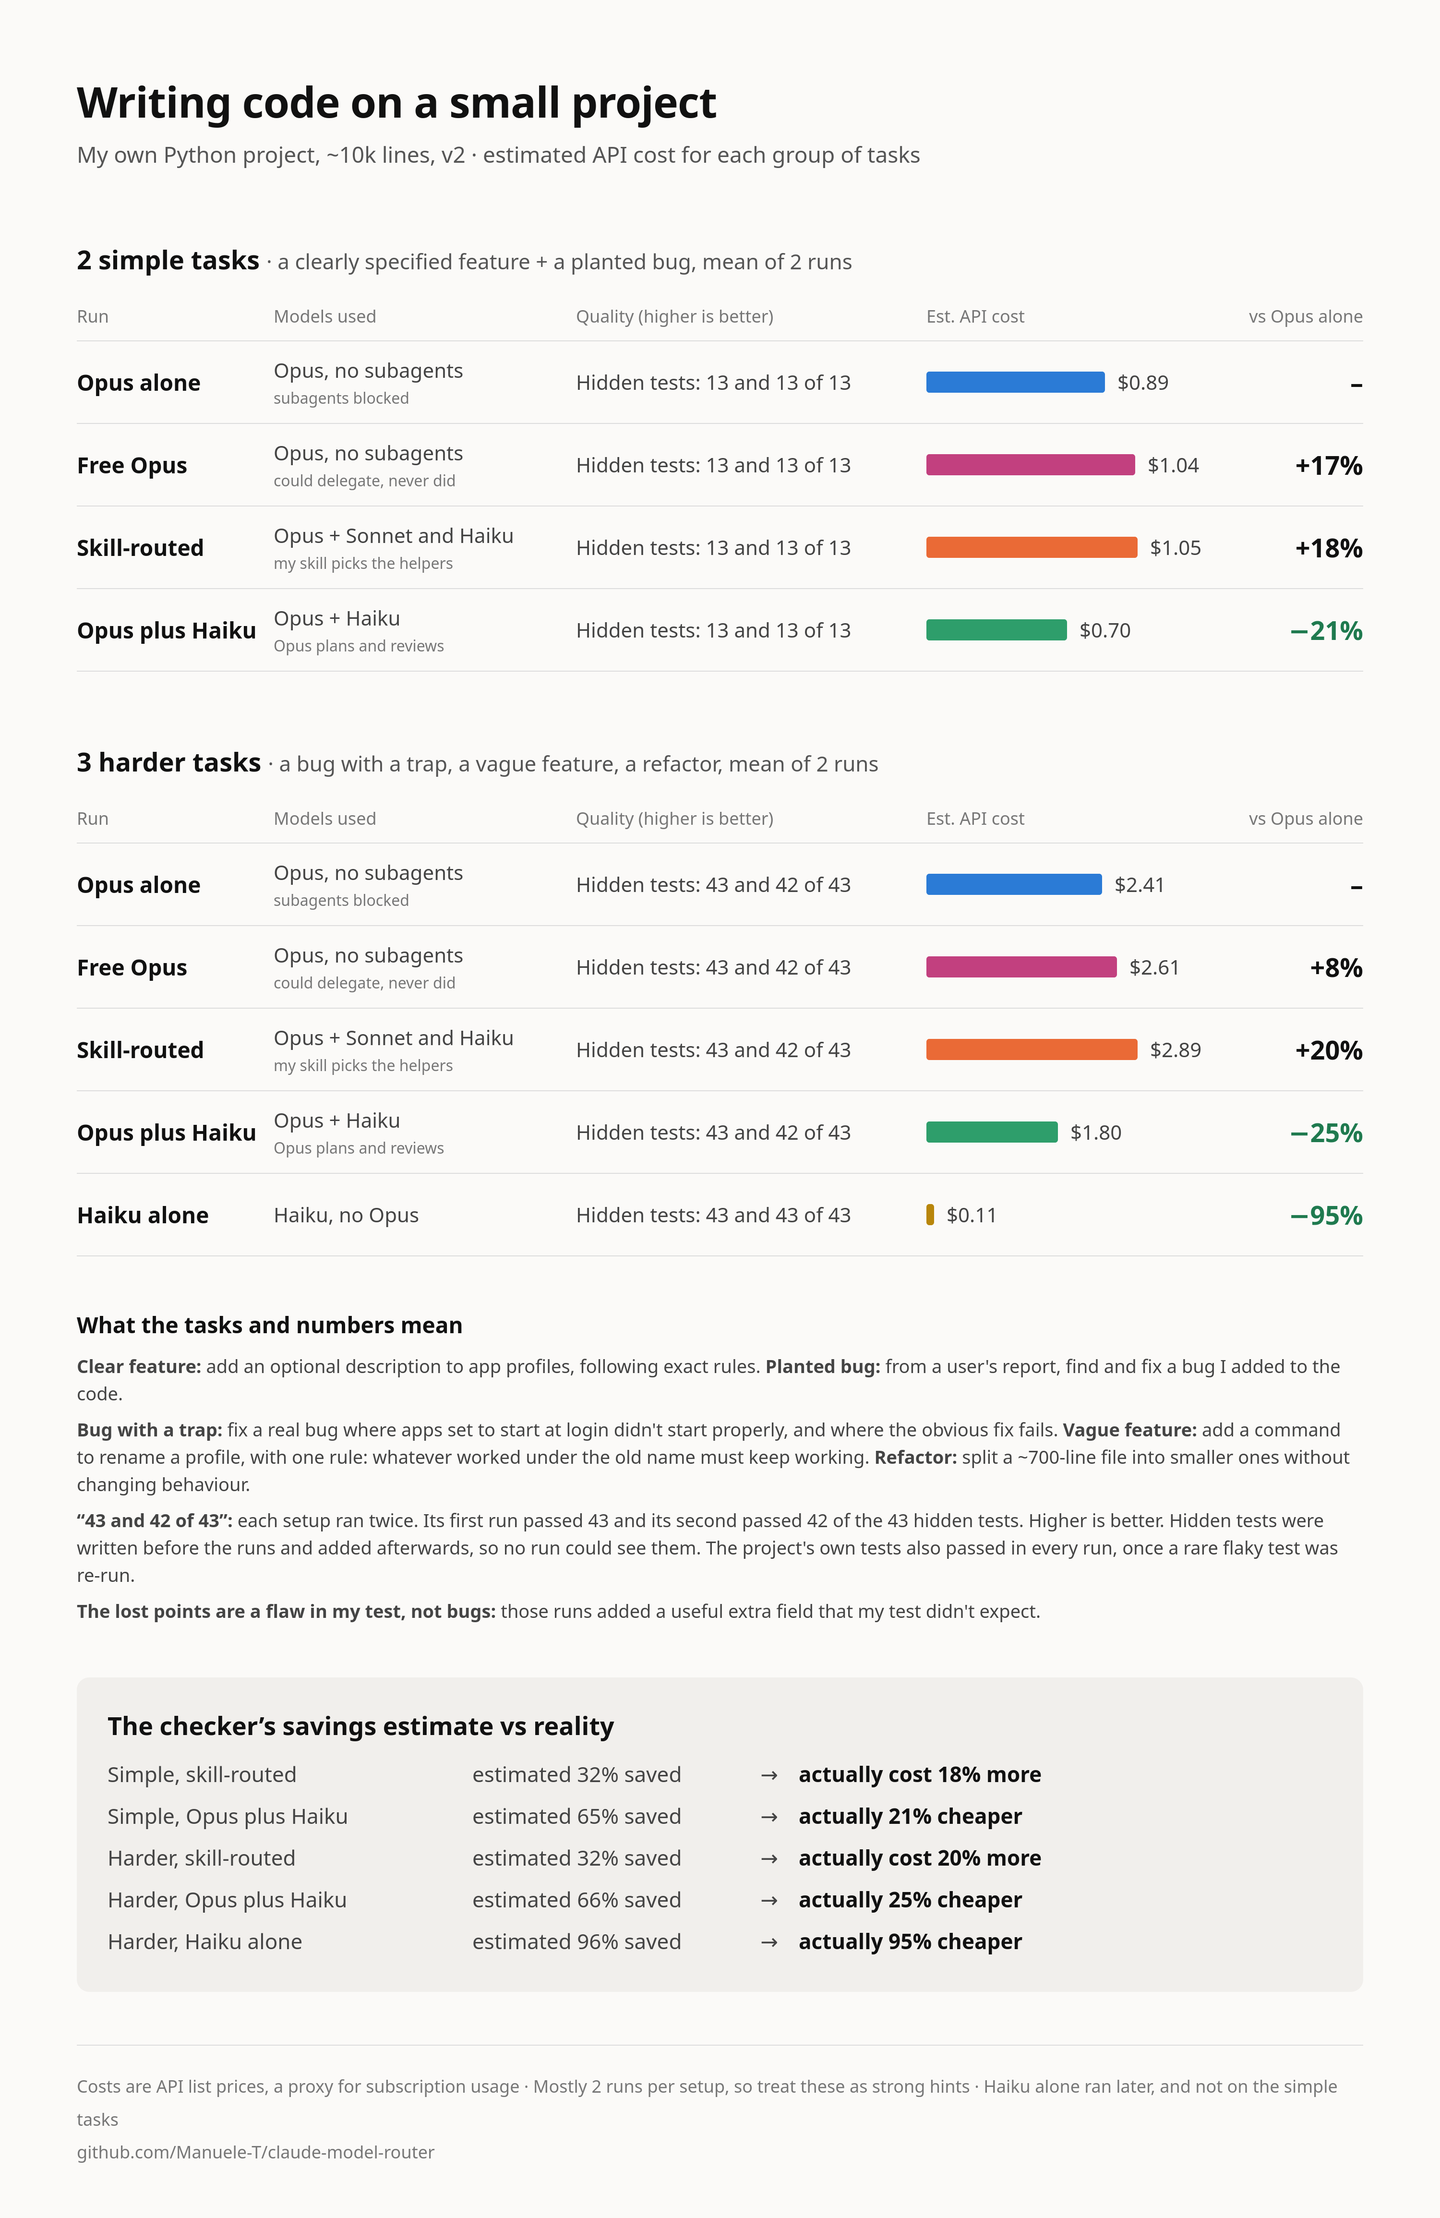
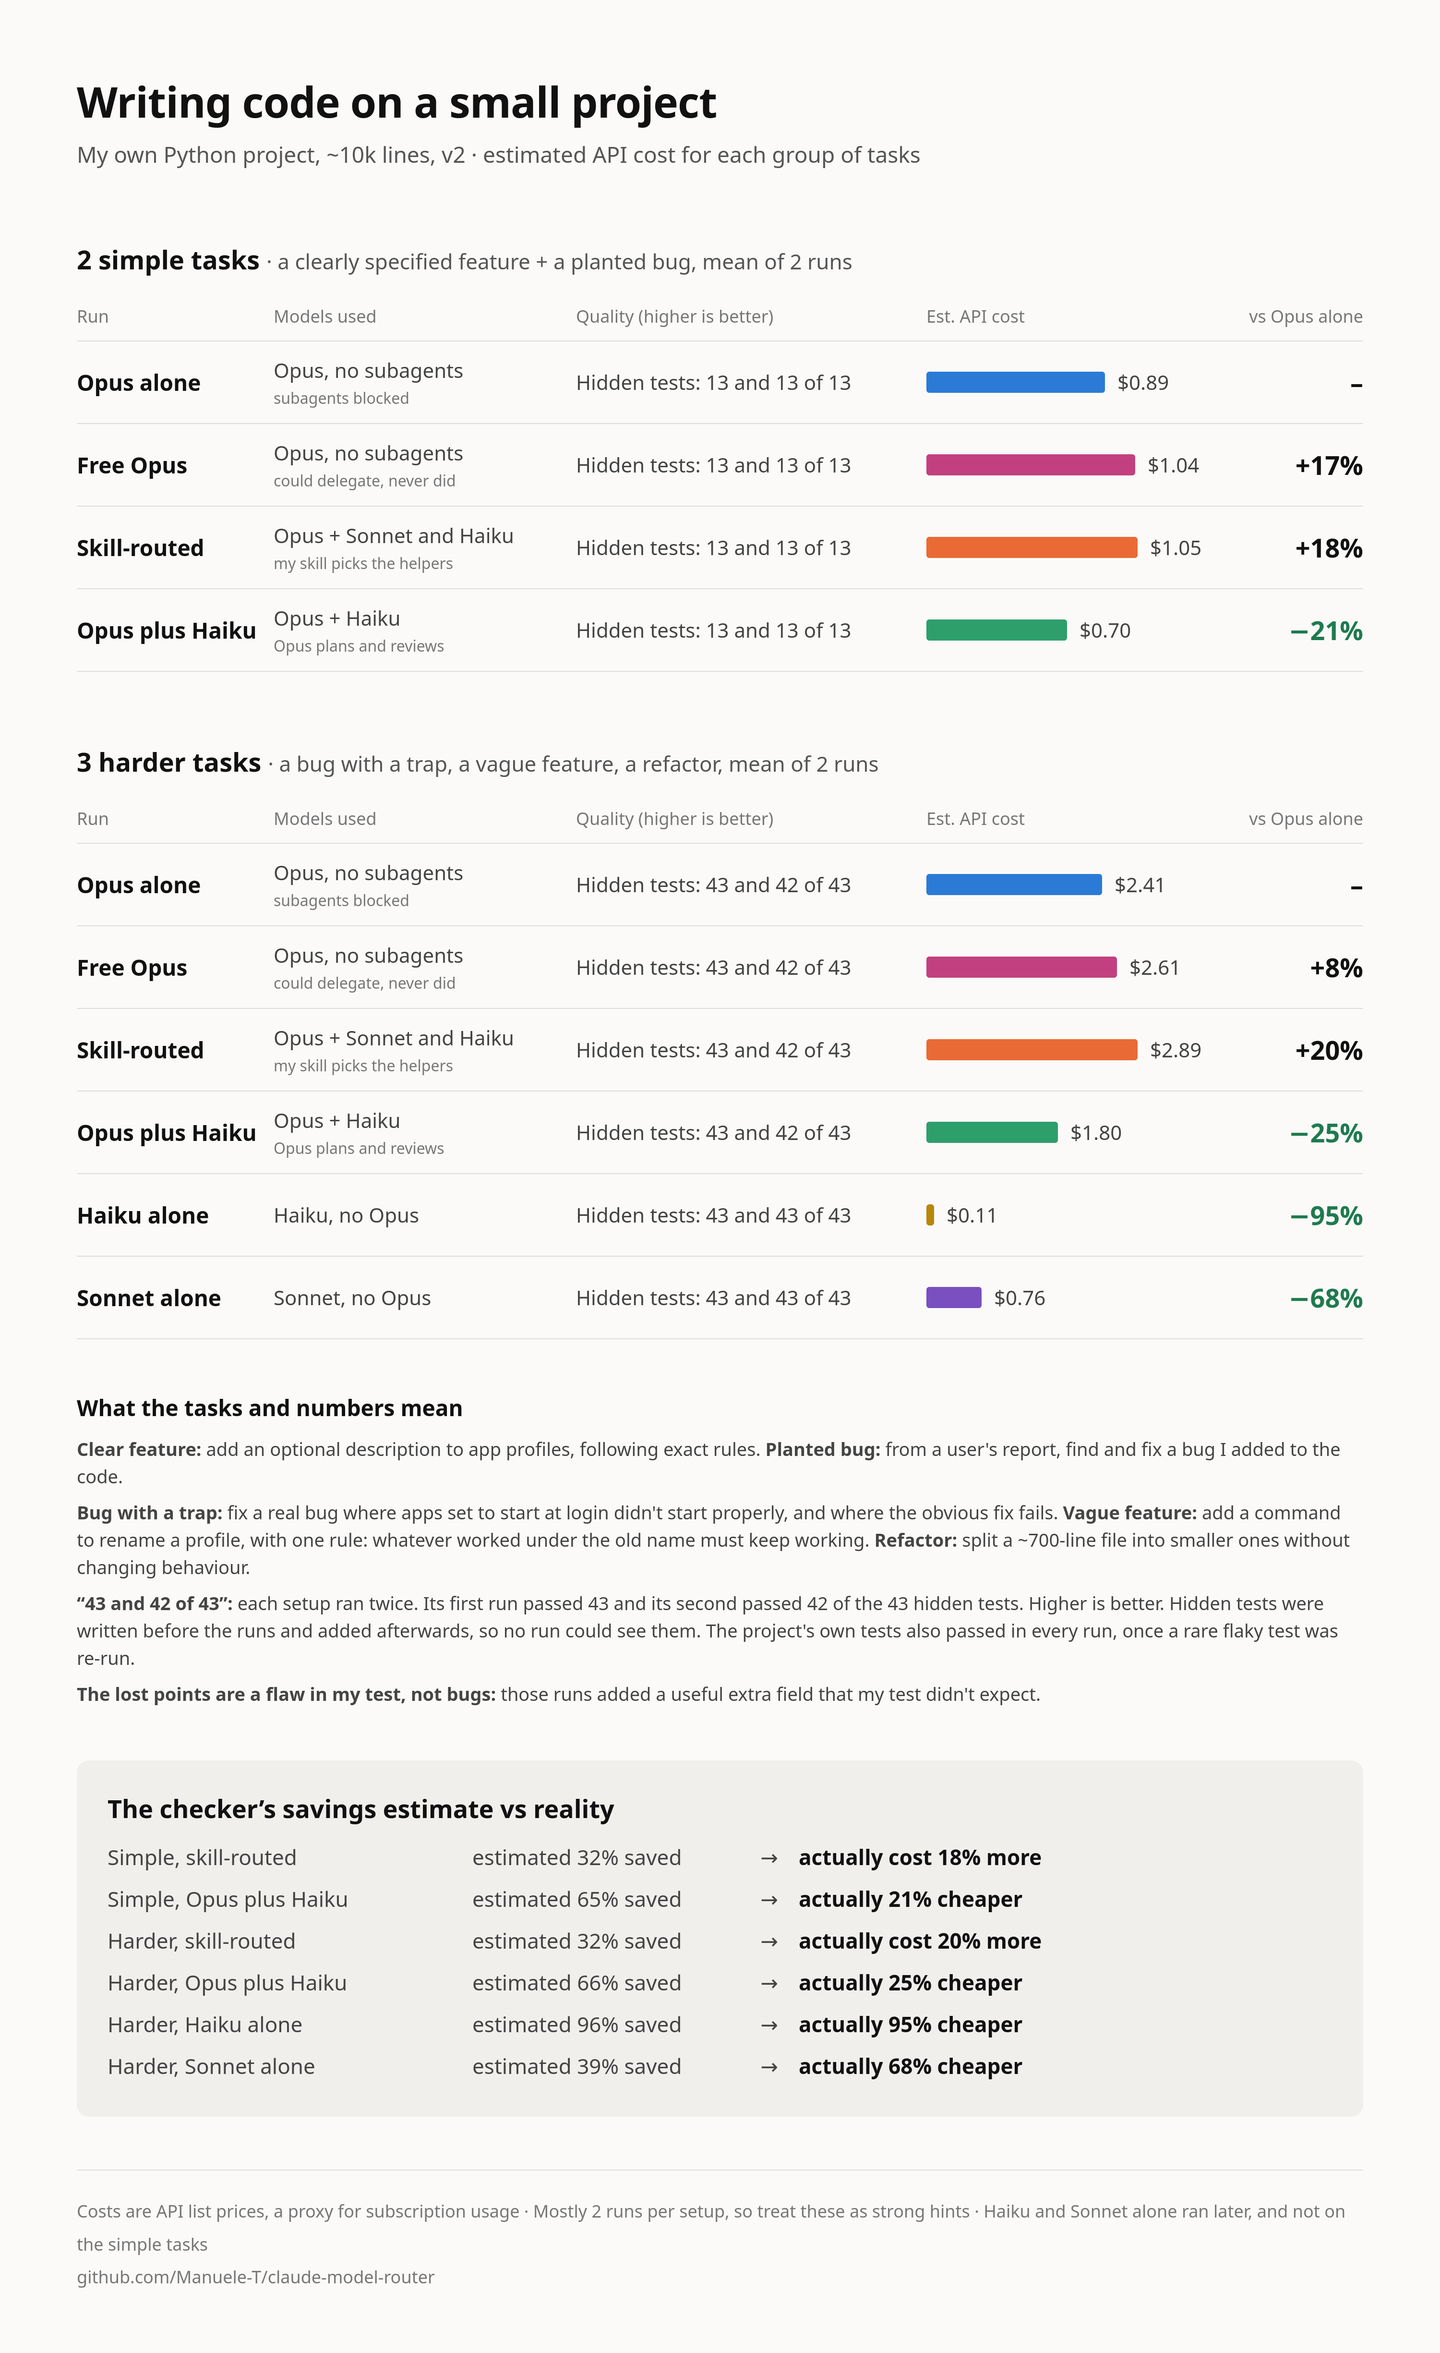
Add Sonnet alone to the six v2 charts that show Haiku alone

diff --git a/scripts/make_charts.py b/scripts/make_charts.py
@@ -13,7 +13,7 @@ import tempfile
 from pathlib import Path
 
 # Checked for colour-blind separation; every bar is also labelled by name.
-COLORS = {"opus": "#2b7bd6", "natural": "#c2407f", "routed": "#ea6a36", "haiku": "#2e9e6b", "solo": "#b8860b"}
+COLORS = {"opus": "#2b7bd6", "natural": "#c2407f", "routed": "#ea6a36", "haiku": "#2e9e6b", "solo": "#b8860b", "sonnet": "#7a4fbf"}
 FOOT = "github.com/Manuele-T/claude-model-router"
 WIDTH = 3000
 
@@ -126,6 +126,7 @@ V2_FREE = {"name": "Free Opus", "models": "Opus, no subagents", "small": "could 
 V2_SKILL = {"name": "Skill-routed", "models": "Opus + Sonnet and Haiku", "small": "my skill picks the helpers", "kind": "routed"}
 V2_OH = {"name": "Opus plus Haiku", "models": "Opus + Haiku", "small": "Opus plans and reviews", "kind": "haiku"}
 V2_H = {"name": "Haiku alone", "models": "Haiku, no Opus", "kind": "solo"}
+V2_S = {"name": "Sonnet alone", "models": "Sonnet, no Opus", "kind": "sonnet"}
 V2_KEY = "Costs are API list prices, a proxy for subscription usage · Mostly 2 runs per setup, so treat these as strong hints"
 EXPL = "What the tasks and numbers mean"
 
@@ -220,7 +221,7 @@ CHARTS = {
          ("Forced Haiku", "85%", "actually 75% cheaper")],
         LEGEND), 4200),
     "haiku-alone": (page(
-        "Opus, Opus plus Haiku, or Haiku alone?",
+        "Opus with helpers, or a cheaper model alone?",
         "v2, 5 harder coding tasks and an 85-page docs check · estimated API cost",
         [section("5 harder coding tasks", "sum of each task's mean, 2 runs each, 2 of them on ~100k lines", [
             {"name": "Opus only, blocked", "models": "Opus, no subagents", "kind": "opus", "cost": 4.36,
@@ -235,6 +236,8 @@ CHARTS = {
              "quality": ["Working code in every run", "Added a speed index: 2 of 2", "Flagged a symptom: 2 of 2"]},
             {"name": "Haiku alone", "models": "Haiku, no Opus at all", "kind": "solo", "cost": 0.26, "delta": "−94%",
              "quality": ["Working code in every run", "Added a speed index: 0 of 2", "Flagged a symptom: 0 of 2"]},
+            {"name": "Sonnet alone", "models": "Sonnet, no Opus at all", "kind": "sonnet", "cost": 1.31, "delta": "−70%",
+             "quality": ["Working code in every run", "Added a speed index: 2 of 2", "Flagged a symptom: 0 of 2"]},
          ], base="Opus alone"),
          section("Biggest review: docs check", "85 doc pages, mean of 2 runs", [
             {"name": "Opus only, blocked", "models": "Opus, no subagents", "kind": "opus", "cost": 4.11,
@@ -247,14 +250,16 @@ CHARTS = {
              "quality": ["58 and 63 of 92 (72 combined)"]},
             {"name": "Haiku alone", "models": "Haiku, no Opus at all", "small": "up to 20% of line citations don't exist",
              "kind": "solo", "cost": 1.93, "delta": "−53%", "quality": ["42 and 41 of 92 (54 combined)"]},
+            {"name": "Sonnet alone", "models": "Sonnet, no Opus at all", "small": "up to 32% of line citations don't exist",
+             "kind": "sonnet", "cost": 3.21, "delta": "−22%", "quality": ["39 and 64 of 92 (67 combined)"]},
          ], base="Opus alone")],
         ["<b>Coding:</b> a bug with a trap, a vague feature, a refactor, a REST endpoint and a far-off bug. Scored by "
          "hidden tests written before the runs (some with flaws that penalised careful runs; see the write-up). "
          "The speed index (on the endpoint task) and flagging a symptom it couldn't reproduce (on the far-off bug) aren't hidden-test scores: they come from reading those runs' results.",
-         "<b>Docs check:</b> real errors on a list of 92 verified against the code by Claude Opus. The list predates Haiku alone. "
-         "Adding true claims checked later: forced Haiku 62 and 66, Haiku alone 52 and 45. <b>Combined</b> = distinct issues found by the two runs together."],
+         "<b>Docs check:</b> real errors on a list of 92 verified against the code by Claude Opus. The list predates Haiku and Sonnet alone. "
+         "Adding true claims checked later: forced Haiku 62 and 66, Haiku alone 52 and 45, Sonnet alone 39 and 69. <b>Combined</b> = distinct issues found by the two runs together."],
         [],
-        "Two runs per setup · Haiku alone ran later, on the same Claude Code version · API list prices as a proxy for subscription usage"), 4000),
+        "Two runs per setup · Haiku and Sonnet alone ran later, on the same Claude Code version · API list prices as a proxy for subscription usage"), 4420),
     "v2-reading": (page(
         "Reading a ~100k-line codebase",
         "buildbot (open source), v2 · estimated API cost per run",
@@ -275,6 +280,7 @@ CHARTS = {
              "quality": ["55 and 70 of 92 (77 combined)"]},
             {**V2_OH, "small": "~6.5 min per run", "cost": 1.93, "delta": "−53%", "quality": ["58 and 63 of 92 (72 combined)"]},
             {**V2_H, "small": "~12 min per run", "cost": 1.93, "delta": "−53%", "quality": ["42 and 41 of 92 (54 combined)"]},
+            {**V2_S, "small": "~6 min per run", "cost": 3.21, "delta": "−22%", "quality": ["39 and 64 of 92 (67 combined)"]},
          ], base="Opus alone")],
         ["<b>Summaries:</b> read about 400 code files (a “module” is one source code file) and write a short paragraph on what each does and what it works with. "
          "Every run covered all 400. 83-98% of the links they named matched a real import, with no clear gap between setups.",
@@ -284,8 +290,9 @@ CHARTS = {
          "30 errors I planted were also found by every run, so they aren't scored here."],
         [("Skill-routed", "32-39%", "5% cheaper to 32% more expensive"),
          ("Opus plus Haiku", "82-88%", "actually 46-53% cheaper"),
-         ("Haiku alone, 85-page check", "81%", "actually 53% cheaper")],
-        V2_KEY + " · Haiku alone ran later, and only on the 85-page check", EXPL), 4620),
+         ("Haiku alone, 85-page check", "81%", "actually 53% cheaper"),
+         ("Sonnet alone, 85-page check", "25%", "actually 22% cheaper")],
+        V2_KEY + " · Haiku and Sonnet alone ran later, and only on the 85-page check", EXPL), 4900),
     "v2-coding-small": (page(
         "Writing code on a small project",
         "My own Python project, ~10k lines, v2 · estimated API cost for each group of tasks",
@@ -301,6 +308,7 @@ CHARTS = {
             {**V2_SKILL, "cost": 2.89, "delta": "+20%", "quality": ["Hidden tests: 43 and 42 of 43"]},
             {**V2_OH, "cost": 1.80, "delta": "−25%", "quality": ["Hidden tests: 43 and 42 of 43"]},
             {**V2_H, "cost": 0.11, "delta": "−95%", "quality": ["Hidden tests: 43 and 43 of 43"]},
+            {**V2_S, "cost": 0.76, "delta": "−68%", "quality": ["Hidden tests: 43 and 43 of 43"]},
          ], base="Opus alone")],
         ["<b>Clear feature:</b> add an optional description to app profiles, following exact rules. <b>Planted bug:</b> from a user's report, find and fix a bug I added to the code.",
          "<b>Bug with a trap:</b> fix a real bug where apps set to start at login didn't start properly, and where the obvious fix fails. <b>Vague feature:</b> add a command to rename a profile, with one rule: whatever worked under the old name must keep working. <b>Refactor:</b> split a ~700-line file into smaller ones without changing behaviour.",
@@ -310,8 +318,9 @@ CHARTS = {
          ("Simple, Opus plus Haiku", "65%", "actually 21% cheaper"),
          ("Harder, skill-routed", "32%", "actually cost 20% more"),
          ("Harder, Opus plus Haiku", "66%", "actually 25% cheaper"),
-         ("Harder, Haiku alone", "96%", "actually 95% cheaper")],
-        V2_KEY + " · Haiku alone ran later, and not on the simple tasks", EXPL), 4620),
+         ("Harder, Haiku alone", "96%", "actually 95% cheaper"),
+         ("Harder, Sonnet alone", "39%", "actually 68% cheaper")],
+        V2_KEY + " · Haiku and Sonnet alone ran later, and not on the simple tasks", EXPL), 4900),
     "v2-coding-large": (page(
         "Writing code on a ~100k-line codebase",
         "buildbot (open source), v2 · estimated API cost for both tasks, mean of 2 runs",
@@ -321,6 +330,7 @@ CHARTS = {
             {**V2_SKILL, "cost": 1.82, "delta": "−7%", "quality": ["Official tests: 17 and 21 of 21", "Corrected tests: 21 and 21 of 21", "Speed index: 2 of 2", "Flagged the odd symptom: 2 of 2"]},
             {**V2_OH, "cost": 1.36, "delta": "−30%", "quality": ["Official tests: 21 and 17 of 21", "Corrected tests: 21 and 21 of 21", "Speed index: 2 of 2", "Flagged the odd symptom: 2 of 2"]},
             {**V2_H, "cost": 0.15, "delta": "−93%", "quality": ["Official tests: 17 and 17 of 21", "Corrected tests: 21 and 21 of 21", "Speed index: 0 of 2", "Flagged the odd symptom: 0 of 2"]},
+            {**V2_S, "cost": 0.56, "delta": "−71%", "quality": ["Official tests: 21 and 21 of 21", "Corrected tests: 21 and 21 of 21", "Speed index: 2 of 2", "Flagged the odd symptom: 0 of 2"]},
          ], base="Opus alone")],
         ["<b>REST endpoint:</b> add a web API address returning how many of a builder's builds passed, failed and so on, staying fast with millions of builds. "
          "<b>Far-off bug:</b> notifications blamed the wrong people, and the cause was elsewhere, in buildbot's database code. I planted this bug, and buildbot's 6,400+ existing tests don't catch it.",
@@ -330,8 +340,9 @@ CHARTS = {
          "Tests don't score either one: they come from reading the runs' code and reports. 2 of 2 means both runs did it."],
         [("Skill-routed", "38%", "actually 7% cheaper"),
          ("Opus plus Haiku", "67%", "actually 30% cheaper"),
-         ("Haiku alone", "93%", "actually 93% cheaper")],
-        V2_KEY + " · Haiku alone ran later", EXPL), 3920),
+         ("Haiku alone", "93%", "actually 93% cheaper"),
+         ("Sonnet alone", "35%", "actually 71% cheaper")],
+        V2_KEY + " · Haiku and Sonnet alone ran later", EXPL), 4400),
     "v2-quality-price": (page(
         "Quality vs price: what does each real error cost?",
         "v2, doc checks on two codebases · estimated API cost per real error found",
@@ -341,6 +352,7 @@ CHARTS = {
             {**V2_SKILL, "models": "Opus + Sonnet", "cost": 0.06, "delta": "−44%", "quality": ["Found 55 and 70 of 92", "Both runs missed 15", "False claims: 0"]},
             {**V2_OH, "cost": 0.03, "delta": "−71%", "quality": ["Found 58 and 63 of 92", "Both runs missed 20", "False claims: 0"]},
             {**V2_H, "small": "up to 20% of line citations don't exist", "cost": 0.05, "delta": "−58%", "quality": ["Found 42 and 41 of 92", "Both runs missed 38", "False claims: 1"]},
+            {**V2_S, "small": "up to 32% of line citations don't exist", "cost": 0.06, "delta": "−44%", "quality": ["Found 39 and 64 of 92", "Both runs missed 25", "False claims: 1"]},
          ], base="Opus alone", cost_label="Cost per real error"),
          section("80-page doc check", "beets, ~52k lines, v1 runs re-scored", [
             {"name": "Forced Opus", "models": "Opus, no subagents", "small": "told not to delegate", "kind": "opus", "cost": 0.25, "quality": ["Found 41 and 33 of 61", "Both runs missed 17"]},
@@ -353,7 +365,7 @@ CHARTS = {
          "<b>“36 and 38 of 92”:</b> each setup ran twice. Its first run found 36 and its second found 38 of the 92 real errors on the list. Higher is better. The list holds errors the runs reported, each confirmed against the code by Claude Opus, so it can't include errors every run missed.",
          "<b>Both runs missed:</b> errors on the list that neither of the setup's two runs found. Lower is better. <b>False claims:</b> errors a run reported that I confirmed were wrong. This is a minimum, judged by Claude Opus knowing which setup wrote each report, and not counted on beets."],
         [],
-        V2_KEY, EXPL), 4020),
+        V2_KEY, EXPL), 4320),
     "v2-reading-depth": (page(
         "How much did each setup actually read?",
         "v2 doc checks, measured from the run transcripts · two runs per setup",
@@ -362,6 +374,8 @@ CHARTS = {
              "cost": 4.02, "delta": "−2%"},
             {**V2_OPUS, "read": (532, 563), "written": (30, 25), "errors": "36 and 38 of 92", "combined": 49,
              "cost": 4.11},
+            {**V2_S, "read": (532, 719), "written": (31, 43), "errors": "39 and 64 of 92", "combined": 67,
+             "cost": 3.21, "delta": "−22%"},
             {**V2_H, "read": (620, 697), "written": (107, 103), "errors": "42 and 41 of 92", "combined": 54,
              "cost": 1.93, "delta": "−53%"},
             {**V2_SKILL, "models": "Opus + Sonnet", "small": "5-7 subagents", "read": (928, 981), "written": (61, 60),
@@ -379,13 +393,13 @@ CHARTS = {
             {**V2_OH, "small": "8 subagents", "read": (1291, 1283), "written": (167, 188),
              "errors": "30 and 30 of 61", "combined": 39, "cost": 1.49, "delta": "−84%"},
          ])],
-        ["<b>What it shows:</b> on buildbot, real errors rose with the amount read. On beets they didn't: forced Opus read less than either delegated setup and still found the most. So volume can't be the whole story.",
+        ["<b>What it shows:</b> on buildbot, real errors rose with the amount read. On beets they didn't: forced Opus read less than either delegated setup and still found the most. So volume can't be the whole story. The model matters too: Sonnet alone's second run read about as much as Haiku alone's runs and found 64, against their 41 and 42.",
          "<b>Tool output read:</b> characters returned to the agents by their tools, mostly files and command output, summed across Opus and its subagents. Subagents' reports back to Opus aren't counted. Re-reads are, so this measures work done, not distinct pages. Bars show the mean of two runs.",
          "<b>Tokens written:</b> all output tokens, thinking included, summed across Opus and its subagents.",
          "<b>Est. API cost:</b> mean cost per run at API list prices, a proxy for subscription usage. Percentages compare with the baseline: Opus alone on buildbot, forced Opus on beets. Bars use one scale across both checks.",
          "<b>“36 and 38 of 92”:</b> each setup ran twice. Its first run found 36 and its second found 38 of the 92 real errors on the list. Higher is better. The list holds errors the runs reported, each confirmed against the code by Claude Opus, so it can't include errors every run missed. <b>Combined</b> = different errors found across both runs."],
         [],
-        "Measured after the runs on two tasks, not a planned test, so treat this as a hint", EXPL), 3920),
+        "Measured after the runs on two tasks, not a planned test, so treat this as a hint · Haiku and Sonnet alone ran later", EXPL), 4140),
 }
 
 
